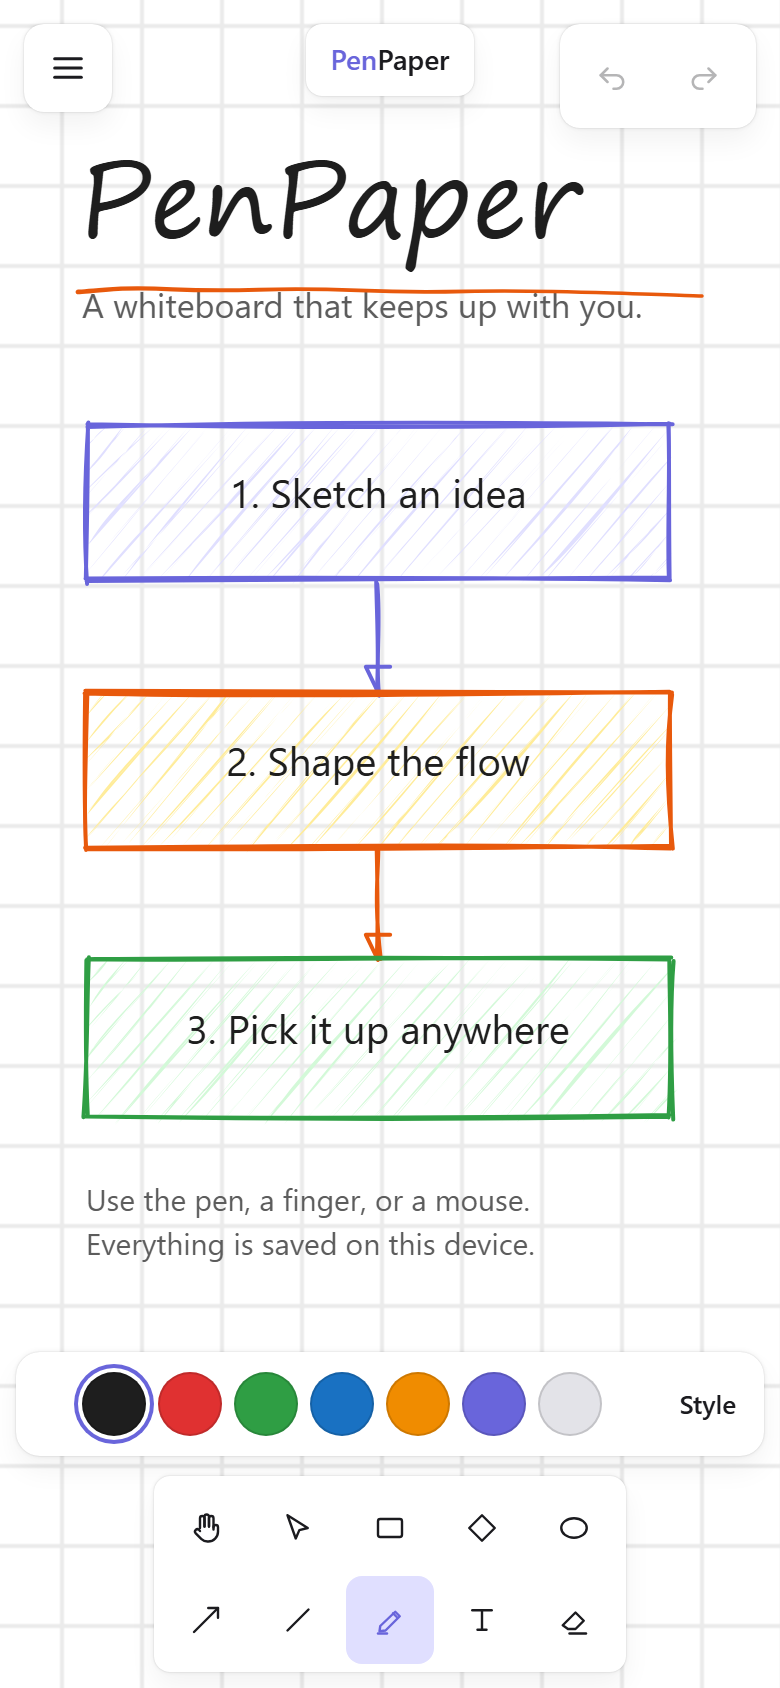
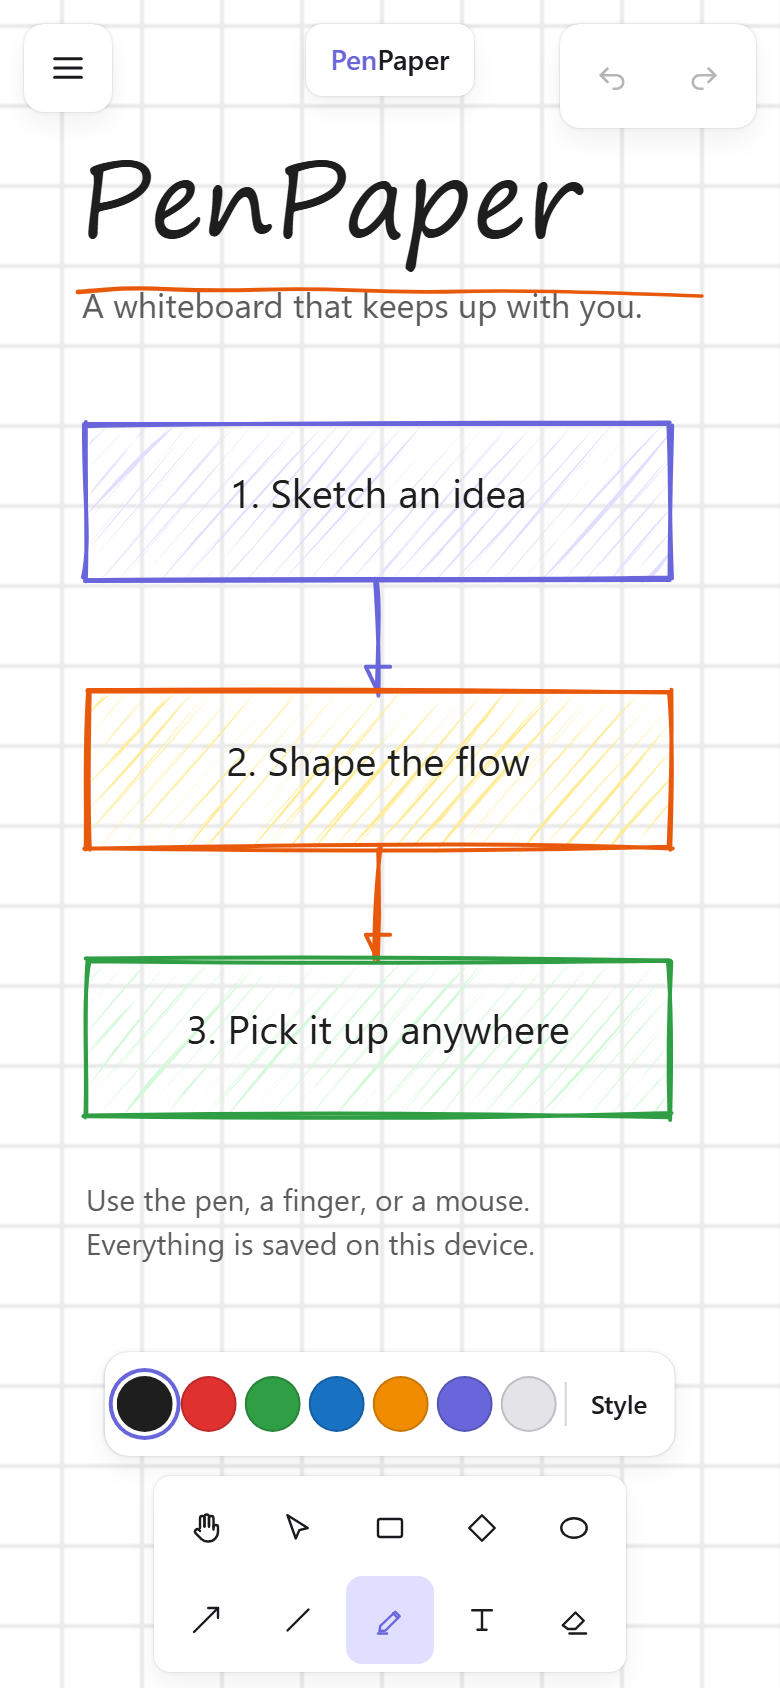
fix: make the style pill hug its content on every screen

diff --git a/packages/ui/src/ui.css b/packages/ui/src/ui.css
@@ -380,68 +380,120 @@
 /* ------------------------------------------------------- quick properties */
 
 /*
- * The phone's selection bar. It sits one gap above the dock and only covers
- * ~52 px, so a stroke can be recoloured without hiding the board. The full
- * panel is behind "Style".
+ * The compact style pill.
+ *
+ * It used to stretch from edge to edge, which looked broken on anything wider
+ * than a phone: a handful of swatches floating in a metre of empty bar. It now
+ * hugs its content and stays centred one gap above the dock, so the same
+ * component reads as deliberate on a phone, a tablet, and a narrow window.
+ *
+ * The full panel is still behind "Style"; this pill is only the two edits that
+ * matter mid-sketch.
  */
 .pp-quick {
   position: fixed;
   z-index: 26;
-  right: 8px;
   bottom: calc(60px + env(safe-area-inset-bottom));
-  left: 8px;
+  left: 50%;
+  transform: translateX(-50%);
 
   display: flex;
   align-items: center;
-  justify-content: center;
-  gap: 4px;
+  gap: 2px;
+  width: max-content;
+  max-width: calc(100vw - 16px);
   height: 52px;
-  padding: 4px 6px;
+  padding: 4px 8px;
+  overflow-x: auto;
+  overflow-y: hidden;
 
   background: var(--island-bg);
   border-radius: 12px;
   box-shadow: var(--shadow-island);
+  scrollbar-width: none;
+}
+
+.pp-quick::-webkit-scrollbar {
+  display: none;
 }
 
 .pp-quick-strokes {
   display: flex;
-  flex: 1 1 auto;
-  justify-content: center;
+  align-items: center;
   gap: 6px;
-  min-width: 0;
+  padding: 0 2px;
 }
 
 .pp-quick-swatch {
   position: relative;
   flex: 0 0 auto;
-  width: 34px;
-  height: 34px;
+  width: 30px;
+  height: 30px;
   padding: 0;
-  border: 1px solid rgba(0, 0, 0, 0.14);
+  /* The light ink (#e3e3e8) is otherwise invisible against the white island. */
+  border: 1px solid rgba(0, 0, 0, 0.16);
   border-radius: 50%;
   cursor: pointer;
 }
 
 .pp-quick-swatch[aria-pressed="true"] {
+  border-color: transparent;
   box-shadow:
     0 0 0 2px var(--island-bg),
     0 0 0 4px var(--primary);
 }
 
+/* A hairline, not a heavy divider: the pill should read as one control. */
+.pp-quick-sep {
+  flex: 0 0 auto;
+  width: 1px;
+  height: 22px;
+  margin: 0 4px;
+  background: var(--on-surface-muted);
+  opacity: 0.25;
+}
+
 /* Seven swatches plus two actions no longer fit a 390 px bar at 34 px, and a
-   thumb is larger than any of them anyway: draw 32 px but accept taps in a
+   thumb is larger than any of them anyway: draw 30 px but accept taps in a
    44 px circle. */
 @media (pointer: coarse) {
   .pp-quick-swatch {
-    width: 32px;
-    height: 32px;
+    width: 30px;
+    height: 30px;
   }
 
   .pp-quick-swatch::before {
     content: "";
     position: absolute;
-    inset: -6px;
+    inset: -7px;
     border-radius: 50%;
+  }
+}
+
+/* The smallest phones: shrink the swatches and the gutters rather than
+   stretching the pill into an edge-to-edge bar. */
+@media (max-width: 400px) {
+  .pp-quick {
+    gap: 1px;
+    padding: 4px 6px;
+  }
+
+  .pp-quick-strokes {
+    gap: 4px;
+    padding: 0;
+  }
+
+  .pp-quick-swatch {
+    width: 28px;
+    height: 28px;
+  }
+
+  .pp-quick-sep {
+    margin: 0 3px;
+  }
+
+  .pp-quick-action {
+    padding: 0 7px;
   }
 }
 

diff --git a/apps/web/e2e/chrome.spec.ts b/apps/web/e2e/chrome.spec.ts
@@ -241,6 +241,54 @@ test.describe("hamburger menu", () => {
   });
 });
 
+test.describe("compact style pill", () => {
+  test("hugs its content and stays centred on a narrow window", async ({ page }) => {
+    await page.setViewportSize({ width: 900, height: 700 });
+    await openBoard(page);
+    await page.locator('[data-tool="freedraw"]').click();
+
+    const pill = page.getByTestId("quick-properties");
+    await expect(pill).toBeVisible();
+
+    const box = await pill.boundingBox();
+    expect(box).not.toBeNull();
+    // Content-width, not the old edge-to-edge band.
+    expect(box!.width).toBeLessThan(420);
+    expect(Math.abs(box!.x + box!.width / 2 - 450)).toBeLessThan(2);
+
+    const dock = await page.locator(".pp-dock").boundingBox();
+    expect(dock).not.toBeNull();
+    expect(dock!.y).toBeGreaterThan(box!.y + box!.height);
+  });
+
+  test.describe("360 px phone", () => {
+    test.use({
+      viewport: { width: 360, height: 780 },
+      isMobile: true,
+      hasTouch: true,
+      deviceScaleFactor: 2,
+    });
+
+    test("the pill and dock fit without horizontal overflow", async ({ page }) => {
+      await openBoard(page);
+
+      const pill = page.getByTestId("quick-properties");
+      await expect(pill).toBeVisible();
+
+      const box = await pill.boundingBox();
+      expect(box).not.toBeNull();
+      expect(box!.x).toBeGreaterThanOrEqual(0);
+      expect(box!.x + box!.width).toBeLessThanOrEqual(360);
+
+      const overflow = await page.evaluate(() => ({
+        scroll: document.documentElement.scrollWidth,
+        client: document.documentElement.clientWidth,
+      }));
+      expect(overflow.scroll).toBe(overflow.client);
+    });
+  });
+});
+
 test.describe("phone chrome", () => {
   test.use({
     viewport: { width: 390, height: 844 },

diff --git a/packages/ui/src/quick-properties.tsx b/packages/ui/src/quick-properties.tsx
@@ -13,14 +13,18 @@ export interface QuickPropertiesProps {
 }
 
 /**
- * The phone's always-available style bar.
+ * The compact style bar.
  *
  * A full-height sheet used to open on every selection — including immediately
- * after every pen stroke — which hid half the board while drawing. This bar
+ * after every pen stroke — which hid half the board while drawing. This pill
  * keeps the two edits that matter in the middle of a sketch (colour, delete)
  * one tap away and puts the rest behind an explicit "Style" button. With a
  * drawing tool active it edits the style of the *next* element, so a colour
  * can be chosen before the stroke exists.
+ *
+ * The pill hugs its content instead of spanning the viewport: the same
+ * component is used on phones, tablets, and narrow desktop windows, where a
+ * full-width bar would leave a wide empty band.
  */
 export function QuickProperties({
   value,
@@ -48,6 +52,8 @@ export function QuickProperties({
           />
         ))}
       </div>
+
+      <span className="pp-quick-sep" aria-hidden="true" />
 
       {onDelete ? (
         <button

diff --git a/docs/ARCHITECTURE.md b/docs/ARCHITECTURE.md
@@ -252,6 +252,9 @@ not on synthetic scores.
 - The phone dock is horizontal; the desktop dock is vertical. The properties
   panel becomes a bottom sheet that snaps by **height**, not transform, so its
   scroll area stays inside the visible viewport above the dock.
+- The compact style pill above the dock hugs its content rather than spanning
+  the viewport, so a tablet or a narrow desktop window does not get the
+  edge-to-edge band that only made sense as a phone bar.
 - A blank board opens with the pen selected on coarse pointers: "select" is a
   dead tap when there is nothing to select.
 

diff --git a/README.md b/README.md
@@ -105,7 +105,7 @@ Recorded on the Asus TUF F15 (Windows 11, Chromium, 1440 × 900):
 | --- | --- | --- |
 | Engine unit tests | 167 passing | all green |
 | Web unit tests | 17 passing | all green |
-| Browser tests | 29 passing | all green |
+| Browser tests | 31 passing | all green |
 | Median renderer frame body, 1,000 mixed shapes | 7.3–8.4 ms production | ≤ 16 ms |
 | Board route transfer, gzip | 169.4 KiB JS + CSS | ≤ 220 kB |
 
